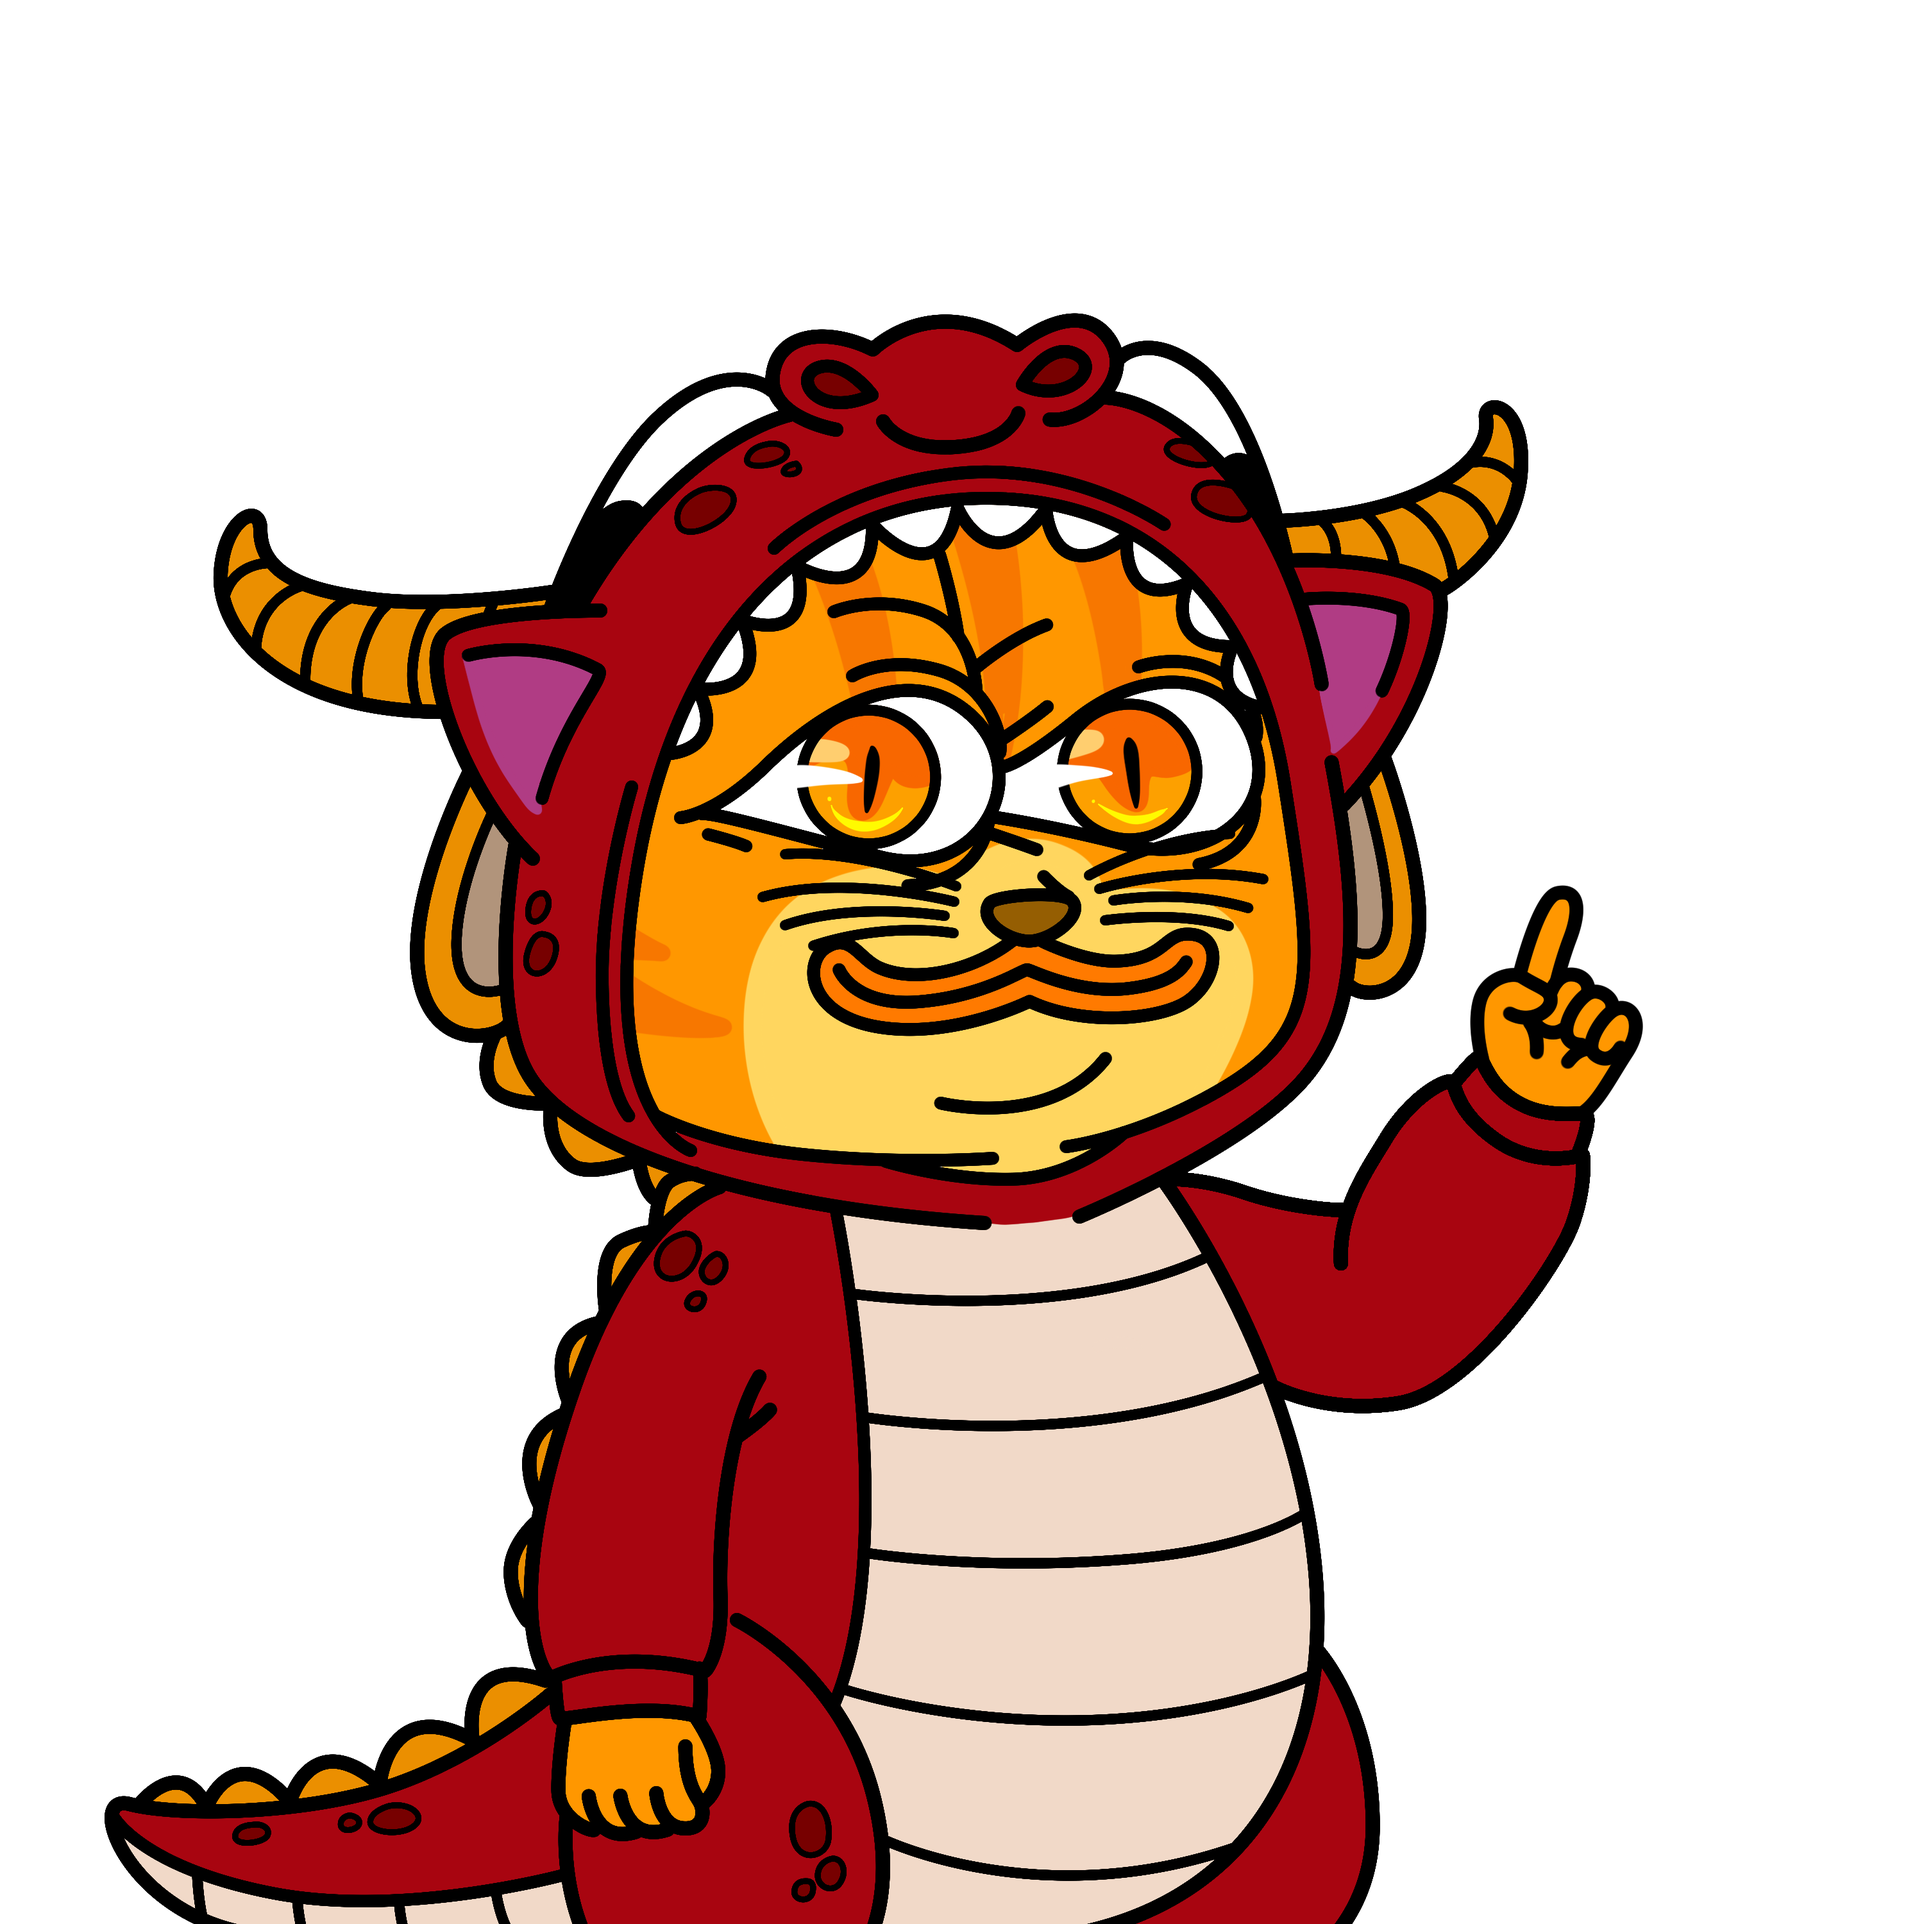
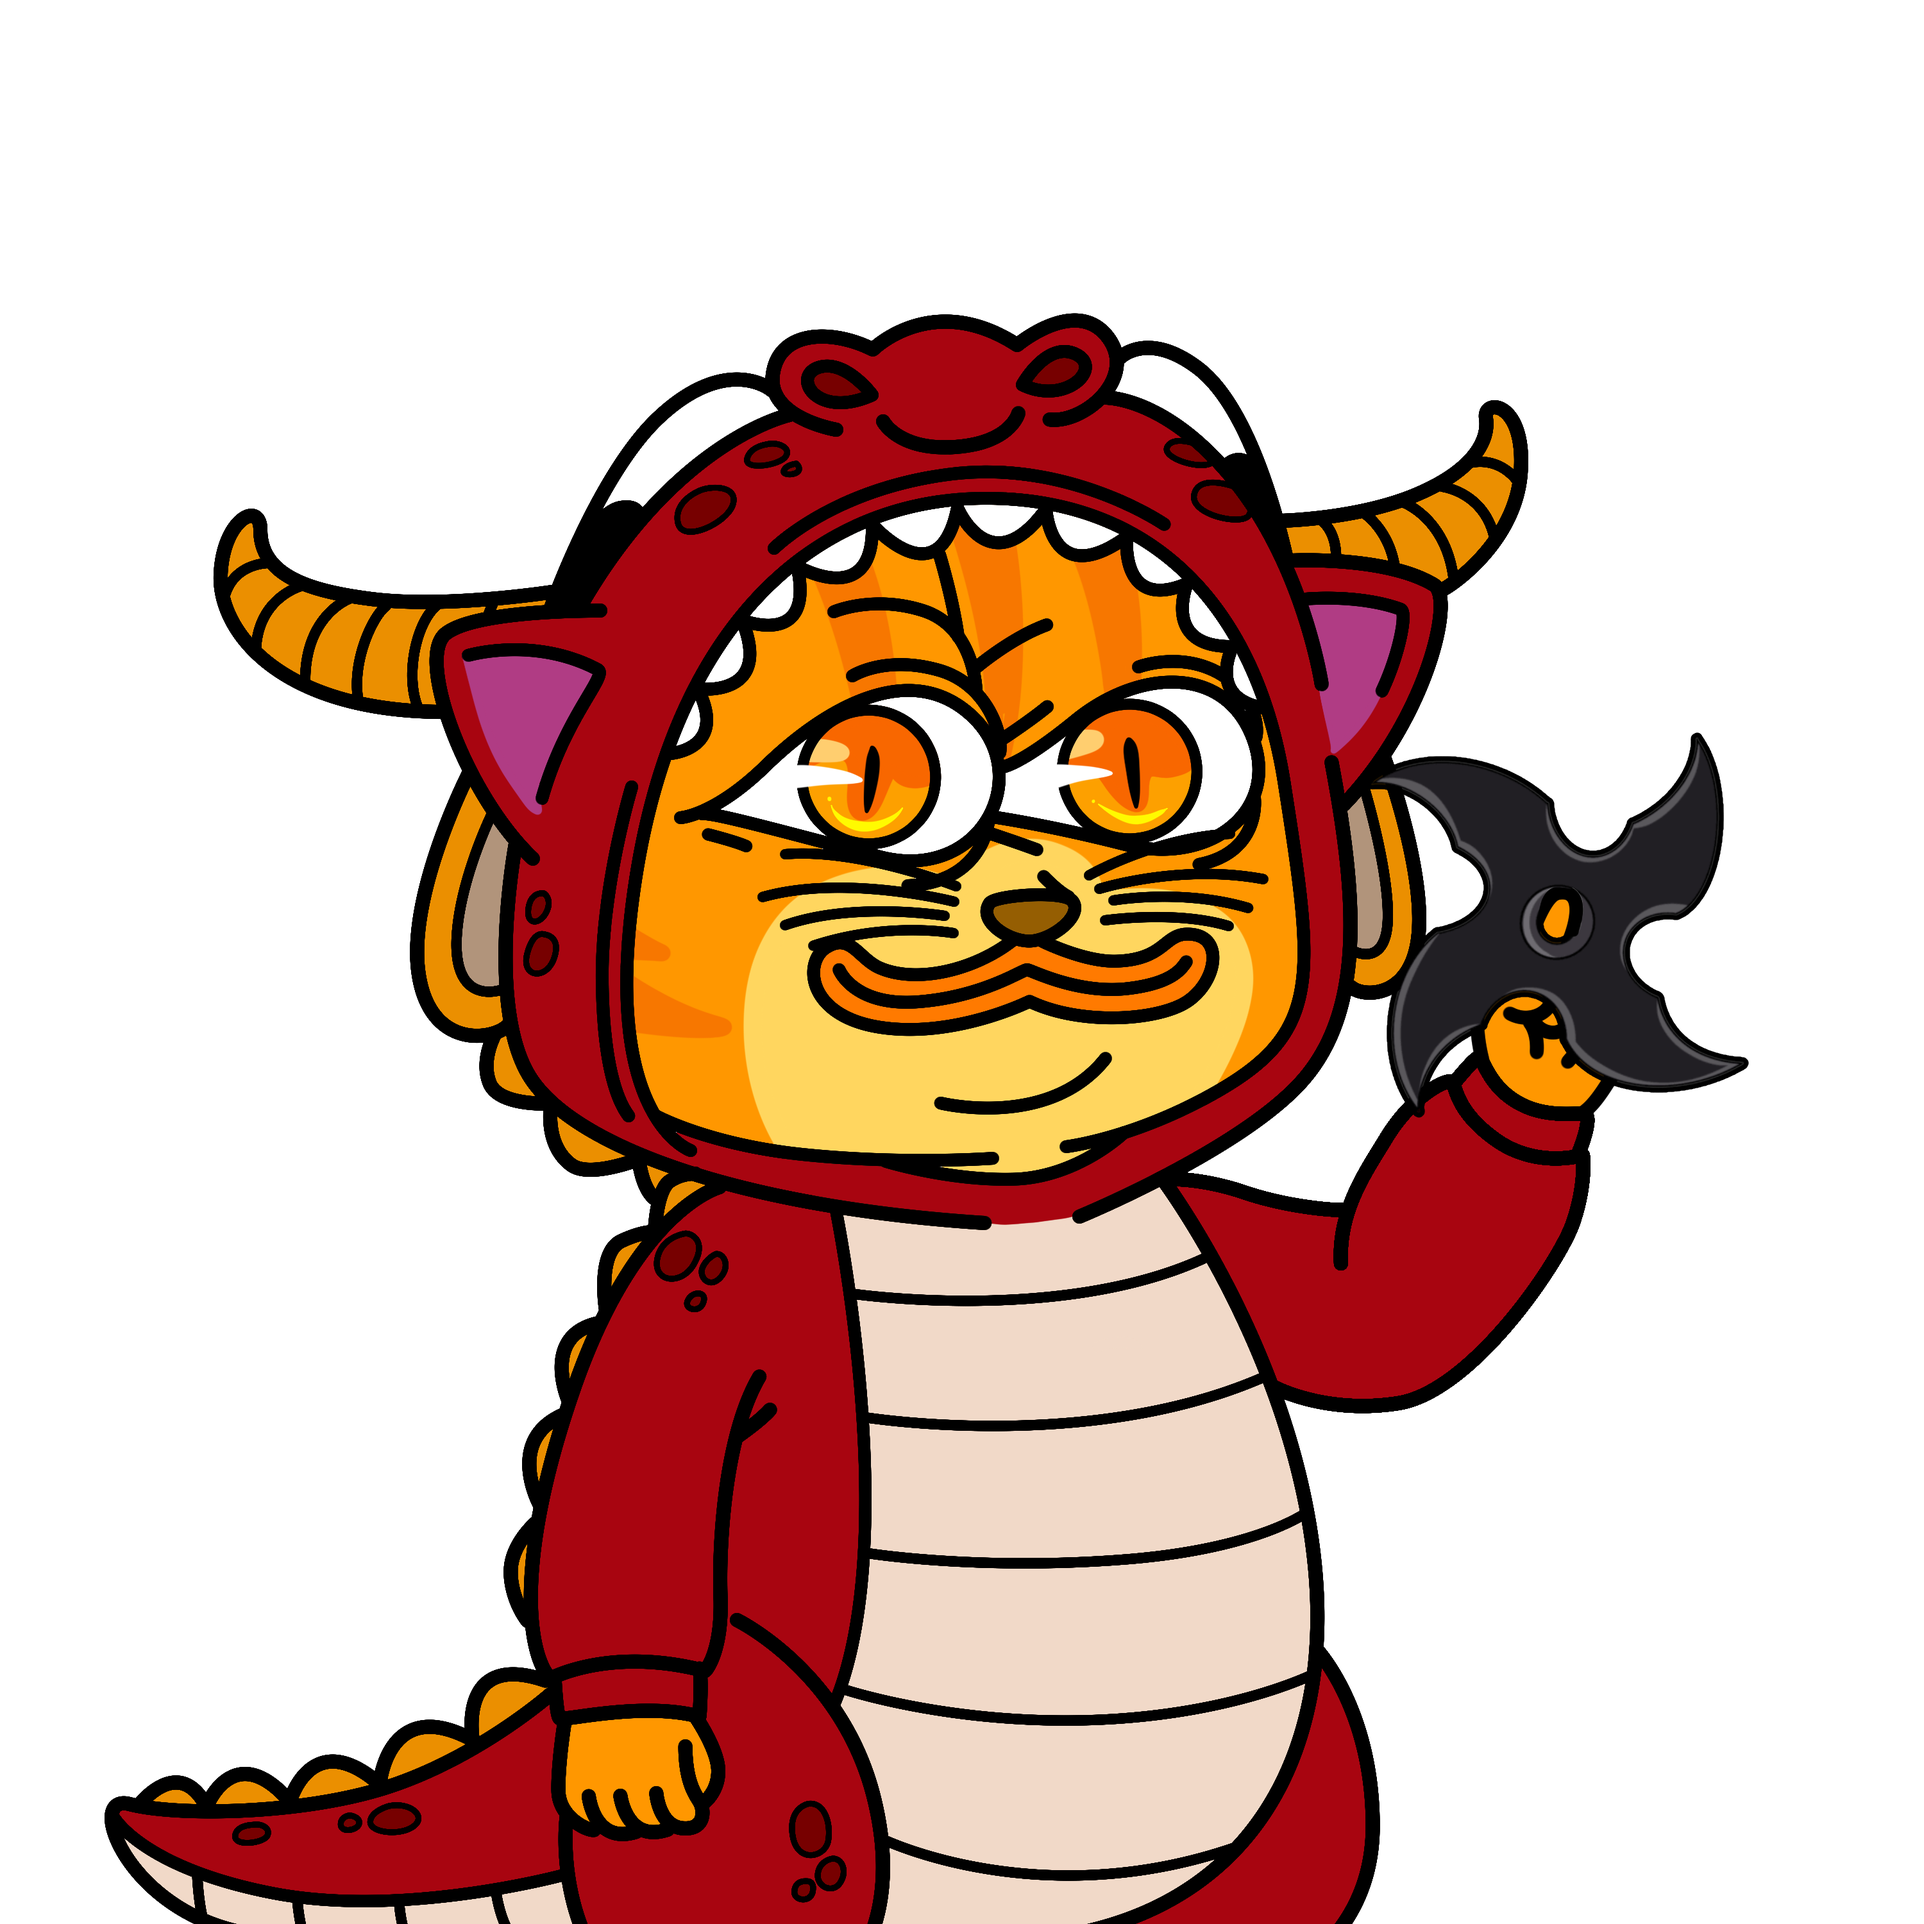
1

Changed region(s): [[0.713, 0.372, 0.899, 0.589]]

diff --git a/index.html b/index.html
@@ -1,7 +1,7 @@
 <!DOCTYPE html><html lang="en"><head>
     <meta charset="UTF-8">
     <meta name="viewport" content="width=device-width, initial-scale=1.0">
-    <title>HAKI</title>
+    <title>SHUKI</title>
 
     <link rel="stylesheet" href="css/index.css">
 
@@ -35,13 +35,13 @@
                     <button>HOW TO BUY</button>
                 </a>
 
-                <button class="meowMaker">HARAKITTY MAKER</button>
+                <button class="meowMaker">SHURIKITTY MAKER</button>
 
                 <a href="#feedmeow">
                     <button>FEED</button>
                 </a>
 
-                <a href="https://pump.fun/a4x65ZebFTJmfMSWAQ8gGkVERjrphRDMc317HrEHaki" target="_blank">
+                <a href="https://pump.fun/KzVTpuCNGmfqCALzw8fXh9C6xPXKXV56mfxN8uEpump" target="_blank">
                     <button>BUY NOW</button>                    
                 </a>
 
@@ -58,7 +58,7 @@
 
 
             <div class="mainSection">
-                <img src="images/bgdojo.jpeg" class="bg" alt="">
+                <img src="images/bgdojo.png" class="bg" alt="">
                 <div class="shadow"></div>
                 
                 <div class="content">
@@ -66,7 +66,7 @@
                     <div class="leftSide">
                         <!-- <h1 class="meowlogo"><span>meow</span> the samurai</h1> -->
                         <div class="texts">
-                            <h1 data-text="HAKI">HAKI</h1>
+                            <h1 data-text="SHUKI">SHUKI</h1>
                             <h1 data-text="SOLANA">SOLANA</h1>
 
                         </div>
@@ -86,23 +86,23 @@
 
                     <div class="contents">
                         <div class="ca">
-                            <p>a4x65ZebFTJmfMSWAQ8gGkVERjrphRDMc317HrEHaki</p>
+                            <p>KzVTpuCNGmfqCALzw8fXh9C6xPXKXV56mfxN8uEpump</p>
                             <button class="copyButton one" onclick="copyCa('one')">COPY</button>
                         </div>
 
                         <div class="liks">
-                            <a href="https://t.me/hakisolana" target="_blank">
+                            <a href="https://t.me/shurikittyclub" target="_blank">
                                 <div class="lik">
                                     <img src="images/telegramlogo.webp" alt="">
                                 </div>
                             </a>
 
-                            <a href="https://x.com/hakisolana" target="_blank">
+                            <a href="https://x.com/shurikittyclub" target="_blank">
                                 <div class="lik">
                                     <img src="images/xlogo.png" alt="">
                                 </div>
                             </a>
-                            <a href="https://pump.fun/a4x65ZebFTJmfMSWAQ8gGkVERjrphRDMc317HrEHaki" target="_blank">
+                            <a href="https://pump.fun/KzVTpuCNGmfqCALzw8fXh9C6xPXKXV56mfxN8uEpump" target="_blank">
                                 <div class="lik">
                                     <img src="images/juplogo.png" alt="">
                                 </div>
@@ -137,11 +137,11 @@
 
                 <h1 class="hBorder who" data-text="WHO IS THIS">WHO IS THIS</h1>
 
-                <h1 class="meowq hBorder" data-text="HAKI!?">HAKI!?</h1>
+                <h1 class="meowq hBorder" data-text="SHUKI!?">SHUKI!?</h1>
 
                 <p>
                     Trained by the greatest samurai masters, 
-                    HAKI mastered the art of the katana,
+                    SHURIKITTY mastered the art of the shuriken,
                     moving with the grace of a whispering wind and striking with the force of a tempest. 
                     His loyalty was unwavering, his courage unmatched, and his spirit unbreakable. 
                     Stories of his heroic deeds spread far and wide, 
@@ -162,7 +162,7 @@
                 <div class="content">
                     <p style="font-family: 'franie b';" class="ddd">DON'T FORGET TO COPY!</p>
                     <div class="ca">
-                        <p>a4x65ZebFTJmfMSWAQ8gGkVERjrphRDMc317HrEHaki</p>
+                        <p>KzVTpuCNGmfqCALzw8fXh9C6xPXKXV56mfxN8uEpump</p>
                         <button class="copyButton two" onclick="copyCa('two')">COPY</button>
                     </div>
                 </div>
@@ -185,7 +185,7 @@
             <div class="cards">
                 <div class="card">
                     <div class="cardContent" data-text="1">
-                        <p>Create any wallet of your choice, HAKI recommends Phantom!</p>
+                        <p>Create any wallet of your choice, SHUKI recommends Phantom!</p>
 
                         <div class="btnsC">
                             <a href="https://phantom.app/" target="_blank">
@@ -210,7 +210,7 @@
                         <p>Head to Pump.fun &amp; paste our Contract Address.</p>
 
                         <div class="btnsC">
-                            <a href="https://pump.fun/a4x65ZebFTJmfMSWAQ8gGkVERjrphRDMc317HrEHaki" target="_blank">
+                            <a href="https://pump.fun/KzVTpuCNGmfqCALzw8fXh9C6xPXKXV56mfxN8uEpump" target="_blank">
                                 <button class="green">
                                     <img src="images/juplogo.png" alt="">
                                     PUMP.FUN
@@ -225,8 +225,8 @@
                 </div>
                 <div class="card">
                     <div class="cardContent" data-text="4">
-                        <p>Swap from Solana to $HAKI!</p>
-                        <p style="font-size: 0.7rem; padding: 1rem; font-family: 'franie b'; line-height: 120%;">CONGRATS! YOU ARE NOW A HAKI HOLDER! TELL YOUR FRIENDS AND FAMILY!</p>
+                        <p>Swap from Solana to $SHUKI!</p>
+                        <p style="font-size: 0.7rem; padding: 1rem; font-family: 'franie b'; line-height: 120%;">CONGRATS! YOU ARE NOW A SHUKI HOLDER! TELL YOUR FRIENDS AND FAMILY!</p>
                     </div>
                 </div>
             </div>
@@ -254,7 +254,7 @@
             <div class="curveShadow"></div>
             <div class="headings">
                 <!-- <h1 class="hBorder" data-text="PICK FOOD &">PICK FOOD &</h1> -->
-                <h1 class="hBorder" data-text="FEED HAKI!">FEED HAKI!</h1>
+                <h1 class="hBorder" data-text="FEED SHUKI!">FEED SHUKI!</h1>
             </div>
 
             <div class="foodCounter">
@@ -316,7 +316,7 @@
 
         <footer>
 
-            <p>2024 © All Rights Reserved | hakisolana.xyz</p>
+            <p>2024 © All Rights Reserved | shurikitty.club</p>
 
         </footer>
         
@@ -334,12 +334,12 @@
             <button>HOW TO BUY</button>
         </a>
 
-        <button class="meowMaker">HARAKITTY MAKER</button>
+        <button class="meowMaker">SHURIKITTY MAKER</button>
         <a href="#feedmeow" onclick="closeMenu()">
             <button>FEED</button>
         </a>
 
-        <a href="https://pump.fun/a4x65ZebFTJmfMSWAQ8gGkVERjrphRDMc317HrEHaki" target="_blank" onclick="closeMenu()">
+        <a href="https://pump.fun/KzVTpuCNGmfqCALzw8fXh9C6xPXKXV56mfxN8uEpump" target="_blank" onclick="closeMenu()">
             <button>BUY NOW</button>            
         </a>    
 

diff --git a/js/index.js b/js/index.js
@@ -145,7 +145,7 @@ function handleStart() {
         setTimeout(() => {
             document.querySelector('.copyButton.'+nn).innerHTML =`COPY`  
         }, 1000);
-        navigator.clipboard.writeText('a4x65ZebFTJmfMSWAQ8gGkVERjrphRDMc317HrEHaki');
+        navigator.clipboard.writeText('KzVTpuCNGmfqCALzw8fXh9C6xPXKXV56mfxN8uEpump');
 
     }
     
